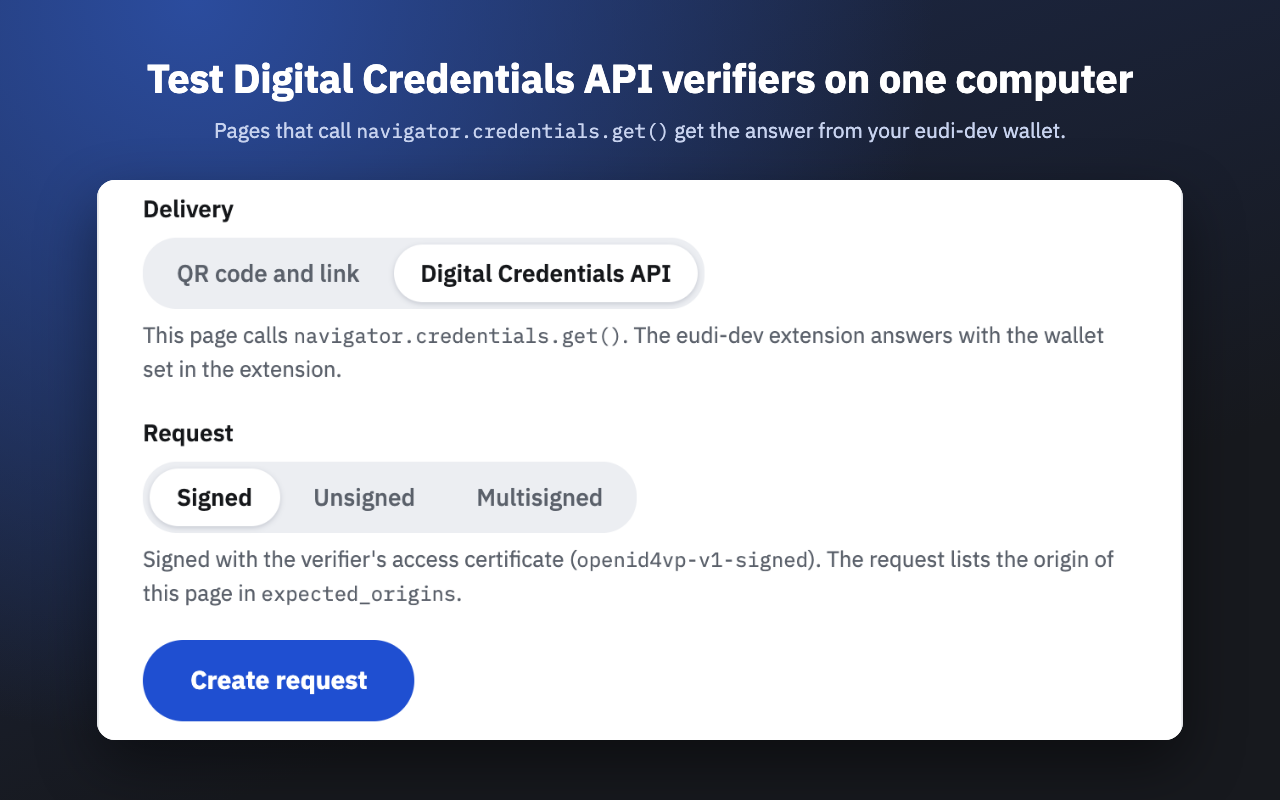
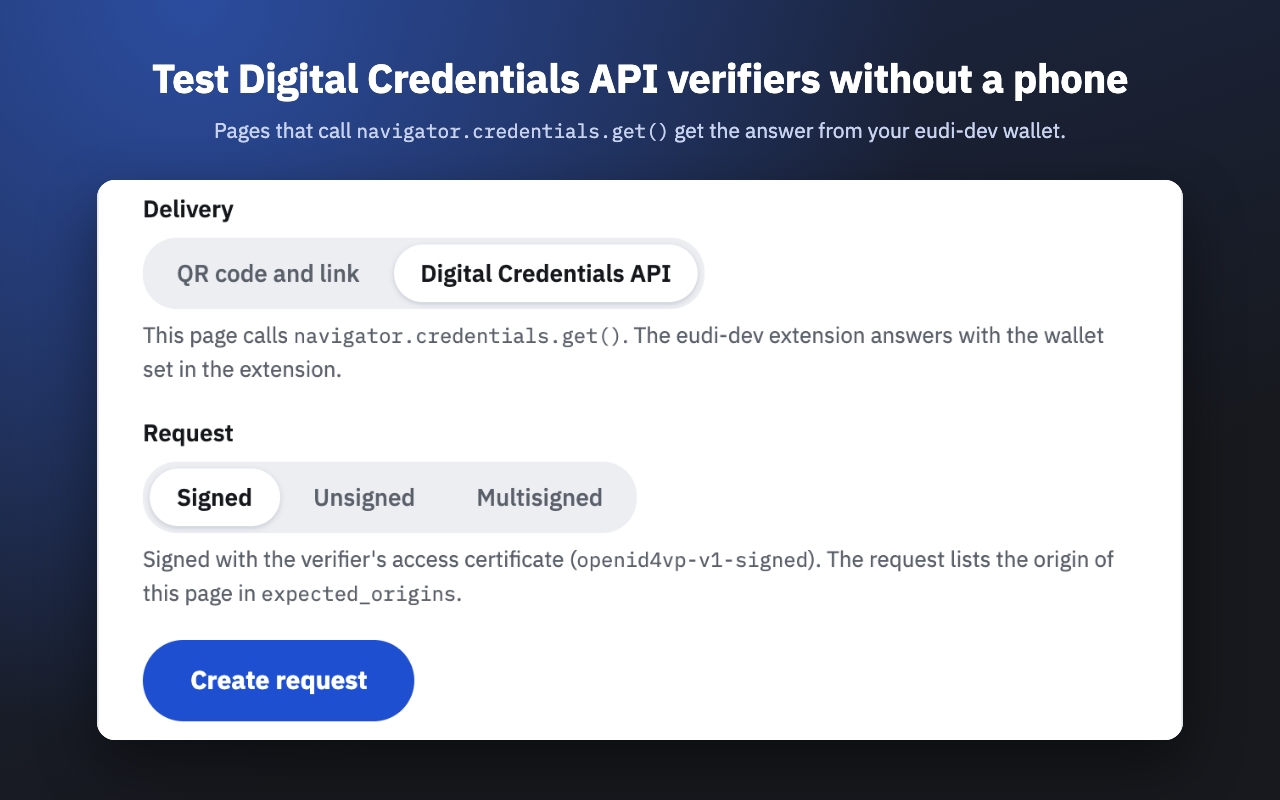
docs: announce the browser extension and add the 3.3.1 changelog

Changed region(s): [[0.125, 0.0625, 0.875, 0.125]]

diff --git a/examples/public-demo/news/extension.source.html b/examples/public-demo/news/extension.source.html
@@ -1,0 +1,43 @@
+<!doctype html>
+<html><head><meta charset="utf-8">
+<style>
+  @font-face { font-family: "IBM Plex Sans"; font-weight: 400; src: url("../../../internal/webui/fonts/IBMPlexSans-Regular-Latin1.woff2") format("woff2"); }
+  @font-face { font-family: "IBM Plex Sans"; font-weight: 600; src: url("../../../internal/webui/fonts/IBMPlexSans-SemiBold-Latin1.woff2") format("woff2"); }
+  @font-face { font-family: "IBM Plex Sans"; font-weight: 700; src: url("../../../internal/webui/fonts/IBMPlexSans-Bold-Latin1.woff2") format("woff2"); }
+  @font-face { font-family: "IBM Plex Mono"; font-weight: 400; src: url("../../../internal/webui/fonts/IBMPlexMono-Regular-Latin1.woff2") format("woff2"); }
+  :root { --bg:#17191e; --line:#383d45; --text:#eceef1; --dim:#a9afb9; --accent:#8fb4ff; --ok:#9fdcae; }
+  * { box-sizing: border-box; margin: 0; }
+  body { width: 1200px; height: 627px; background: var(--bg); color: var(--text); font-family: "IBM Plex Sans", sans-serif; overflow: hidden; }
+  .card { position: relative; width: 1200px; height: 627px; overflow: hidden;
+    background: radial-gradient(620px 520px at 900px 300px, rgba(143,180,255,0.30), transparent 70%),
+      radial-gradient(520px 420px at 80px 640px, rgba(159,220,174,0.14), transparent 70%),
+      linear-gradient(135deg, #1b1e25, #15171b); }
+  .copy { position: absolute; left: 56px; top: 52px; width: 540px; z-index: 5; }
+  .top { display: flex; align-items: center; gap: 12px; }
+  .top img { width: 36px; height: 40px; }
+  .brand { font-size: 20px; font-weight: 700; }
+  h1 { margin-top: 40px; font-size: 58px; line-height: 1.04; font-weight: 700; letter-spacing: -0.02em; }
+  h1 span { background: linear-gradient(90deg, #8fb4ff, #9fdcae); -webkit-background-clip: text; background-clip: text; color: transparent; }
+  .sub { margin-top: 18px; font-size: 24px; line-height: 1.3; color: var(--dim); }
+  .sub code { font-family: "IBM Plex Mono", monospace; font-size: 21px; color: var(--text); }
+  .chips { margin-top: 28px; display: flex; flex-wrap: wrap; gap: 8px; }
+  .chips span { padding: 7px 14px; border-radius: 999px; font-size: 15px; font-weight: 600; background: rgba(143,180,255,0.14); color: #c9d8ff; border: 1px solid rgba(143,180,255,0.35); }
+  .site { position: absolute; left: 56px; bottom: 44px; font-family: "IBM Plex Mono", monospace; font-size: 20px; color: var(--accent); z-index: 5; }
+  .shot { position: absolute; border-radius: 16px; overflow: hidden; border: 1px solid #3a3f47;
+    box-shadow: 0 30px 60px rgba(0,0,0,0.55), 0 0 0 1px rgba(255,255,255,0.03); background: #24272d; }
+  .shot img { display: block; width: 100%; }
+  .s2 { left: 740px; top: 70px; width: 440px; height: 370px; transform: rotate(3deg); }
+  .s2 img { margin-top: -357px; }
+  .s1 { left: 600px; top: 340px; width: 340px; transform: rotate(-4deg); border-color: #4a5160; }
+</style></head>
+<body><div class="card">
+  <div class="shot s2"><img src="extension-shots/verifier.png" alt=""></div>
+  <div class="shot s1"><img src="extension-shots/popup.png" alt=""></div>
+  <div class="copy">
+    <div class="top"><img src="logo-mark.svg" alt=""><div class="brand">EUDI Dev Wallet</div></div>
+    <h1>Digital Credentials API <span>in your browser</span></h1>
+    <div class="sub">Test verifiers that call <code>navigator.credentials.get()</code> without a phone</div>
+    <div class="chips"><span>Browser extension</span><span>Any verifier</span><span>Signed, unsigned, multisigned</span></div>
+  </div>
+  <div class="site">eudi-test.dev</div>
+</div></body></html>

diff --git a/examples/public-demo/news/news.html b/examples/public-demo/news/news.html
@@ -1,12 +1,13 @@
-<img src="3.png" alt="eudi-dev v3. Test the trust side of the EUDI Wallet ecosystem.">
-<h2>What's new in eudi-dev v3</h2>
+<img src="extension.png" alt="Digital Credentials API in your browser. Test verifiers that call navigator.credentials.get() without a phone.">
+<h2>New: Test the Digital Credentials API</h2>
 <div class="news-features">
-  <div><strong>Registrar</strong><span>Register your verifier or issuer under <b>Registrar</b>. You get an access certificate and a registration certificate.</span></div>
-  <div><strong>ARF checks</strong><span>The wallet checks both certificates. It tells you when a verifier asks for more data than it registered.</span></div>
-  <div><strong>Trusted lists</strong><span>Add the CA of your issuer to a trusted list of the wallet, or add a list of your own.</span></div>
-  <div><strong>Attestation catalogue</strong><span>Look up each credential type with its schemas, rulebook and trusted list.</span></div>
+  <div><strong>Browser extension</strong><span>The eudi-dev extension answers <code>navigator.credentials.get()</code> with this wallet. You approve the presentation in a wallet window, without a phone.</span></div>
+  <div><strong>Any verifier</strong><span>The extension works with every verifier page that uses the standard API. Your own page needs no change.</span></div>
+  <div><strong>Demo verifier</strong><span>Choose <b>Digital Credentials API</b> under Delivery. Requests can be signed, unsigned or multisigned.</span></div>
+  <div><strong>Your wallet</strong><span>The extension uses eudi-test.dev by default. Set a local wallet or your own server in its popup.</span></div>
 </div>
 <p>
-  The tour shows you where to find each feature. <a href="https://github.com/eudi-dev/eudi-dev/blob/main/docs/whats-new-3.0.md" target="_blank" rel="noopener">What's new in eudi-dev v3</a>
-  explains them in detail. Please report problems on <a href="https://github.com/eudi-dev/eudi-dev/issues" target="_blank" rel="noopener">GitHub</a>.
+  Open <b>How to use</b> and choose <b>Browser extension</b> to install it, or run <code>eudi wallet browser</code>.
+  Details are in the <a href="https://github.com/eudi-dev/eudi-dev/blob/main/docs/wallet/browser-extension.md" target="_blank" rel="noopener">extension documentation</a>.
+  Please report problems on <a href="https://github.com/eudi-dev/eudi-dev/issues" target="_blank" rel="noopener">GitHub</a>.
 </p>

diff --git a/CHANGELOG.md b/CHANGELOG.md
@@ -5,11 +5,27 @@ Notable changes by release.
 The format is based on [Keep a Changelog](https://keepachangelog.com/en/1.1.0/),
 and this project adheres to [Semantic Versioning](https://semver.org/spec/v2.0.0.html).
 
+## [3.3.1] - 2026-10-20
+
+### Added
+
+- **Browser extension in How to use.** A new tab shows how to install the browser extension for the Digital Credentials API.
+- **QR codes on the demo issuer.** The wallet link and the `openid-credential-offer://` URI of an offer each have a QR code beside them, as on the demo verifier.
+
+### Changed
+
+- **News without a tour.** The news dialog has no **Take the tour** button anymore. The tour in **How to use** stays.
+
+### Fixed
+
+- **Error flash before the issuer sign-in.** In Firefox, approving an offer that needs a sign-in at the issuer showed "Approve request failed" for a moment before the sign-in page opened.
+- **Activity log of Browser API responses.** The encrypted and the decrypted view of an encrypted response now show the same result. The decrypted view has the plaintext in place of the JWE.
+
 ## [3.3.0] - 2026-10-19
 
 ### Added
 
-- **Browser extension for the Digital Credentials API.** The eudi-dev extension answers `navigator.credentials.get()` with an eudi-dev wallet, so you can test a verifier on one computer without a phone. `eudi wallet browser` opens Chrome with the extension loaded. `eudi wallet extension <dir>` and the zip file at `/eudi-dev-dc-api-extension.zip` install it in your everyday profile. See [browser extension](docs/wallet/browser-extension.md).
+- **Browser extension for the Digital Credentials API.** The eudi-dev extension answers `navigator.credentials.get()` with an eudi-dev wallet, so you can test a verifier without a phone. `eudi wallet browser` opens Chrome with the extension loaded. `eudi wallet extension <dir>` and the zip file at `/eudi-dev-dc-api-extension.zip` install it in your everyday profile. See [browser extension](docs/wallet/browser-extension.md).
 - **Digital Credentials API on the demo verifier.** The demo verifier can send its request with `navigator.credentials.get()`, signed, unsigned or multisigned. It verifies the encrypted response like any other presentation.
 - **QR codes on the demo verifier.** The wallet link and the `openid4vp://` request each have a QR code beside them for a wallet on a phone. A click enlarges the code.
 

diff --git a/docs/wallet/browser-extension.md b/docs/wallet/browser-extension.md
@@ -1,6 +1,6 @@
 # Browser extension for the Digital Credentials API
 
-A verifier page can ask for a presentation with the [W3C Digital Credentials API](https://www.w3.org/TR/digital-credentials/). The page calls `navigator.credentials.get()` with a `digital` request, and the browser passes the request to a wallet. Chrome asks a wallet on a phone, which needs Bluetooth for the proximity check. The eudi-dev browser extension answers the call with an eudi-dev wallet instead, so you can test a verifier on one computer.
+A verifier page can ask for a presentation with the [W3C Digital Credentials API](https://www.w3.org/TR/digital-credentials/). The page calls `navigator.credentials.get()` with a `digital` request, and the browser passes the request to a wallet. Chrome asks a wallet on a phone, which needs Bluetooth for the proximity check. The eudi-dev browser extension answers the call with an eudi-dev wallet instead, so you can test a verifier without a phone.
 
 The extension works in Chrome, Chromium, Edge and Brave on macOS, Linux and Windows.
 
@@ -77,7 +77,7 @@ Use the extension while you build a verifier and in its automated tests. Before 
 
 ## Wallet interface
 
-The extension works with any wallet that offers this HTTP interface. The eudi-dev wallet implements it.
+The extension does the job of the operating system. A phone wallet gets requests through Credential Manager on Android or Identity Document Services on iOS. The extension sends them to the wallet over this HTTP interface instead. The eudi-dev wallet implements it, and other test wallets can too.
 
 **Request.** The extension sends the argument of `navigator.credentials.get()` as JSON:
 

diff --git a/docs/wallet/presenting.md b/docs/wallet/presenting.md
@@ -116,7 +116,7 @@ In interactive mode (no `--auto-accept`) the two caller types also behave differ
 
 ## Digital Credentials API
 
-A verifier page can ask for a presentation with the W3C Digital Credentials API (`navigator.credentials.get()`). The eudi-dev browser extension answers these calls with an eudi-dev wallet, so you can test a verifier on one computer. `eudi wallet browser` opens Chrome with the extension loaded. The wallet answers the request at `POST /api/dc-api`. See [browser extension](browser-extension.md) for the installation, what a test with the extension covers and the interface for other wallets.
+A verifier page can ask for a presentation with the W3C Digital Credentials API (`navigator.credentials.get()`). The eudi-dev browser extension answers these calls with an eudi-dev wallet, so you can test a verifier without a phone. `eudi wallet browser` opens Chrome with the extension loaded. The wallet answers the request at `POST /api/dc-api`. See [browser extension](browser-extension.md) for the installation, what a test with the extension covers and the interface for other test wallets.
 
 ## HAIP 1.0 enforcement
 

diff --git a/docs/chrome-web-store/README.md b/docs/chrome-web-store/README.md
@@ -39,7 +39,7 @@ Choose **New item** and upload the zip. Then fill in the tabs.
 **Description** (the summary under the name comes from the manifest):
 
 ```text
-eudi-dev Digital Credentials lets you test websites that use the W3C Digital Credentials API on one computer. It works with any verifier website, without changes to the website.
+eudi-dev Digital Credentials lets you test websites that use the W3C Digital Credentials API without a phone. It works with any verifier website, without changes to the website.
 
 A verifier page asks for a credential with navigator.credentials.get(). Chrome normally passes the request to a wallet on a phone, which needs Bluetooth and a mobile wallet with test credentials. This extension answers the call with an eudi-dev test wallet instead. The wallet opens in a window and shows what the verifier asks for. You approve or deny the presentation there.
 
